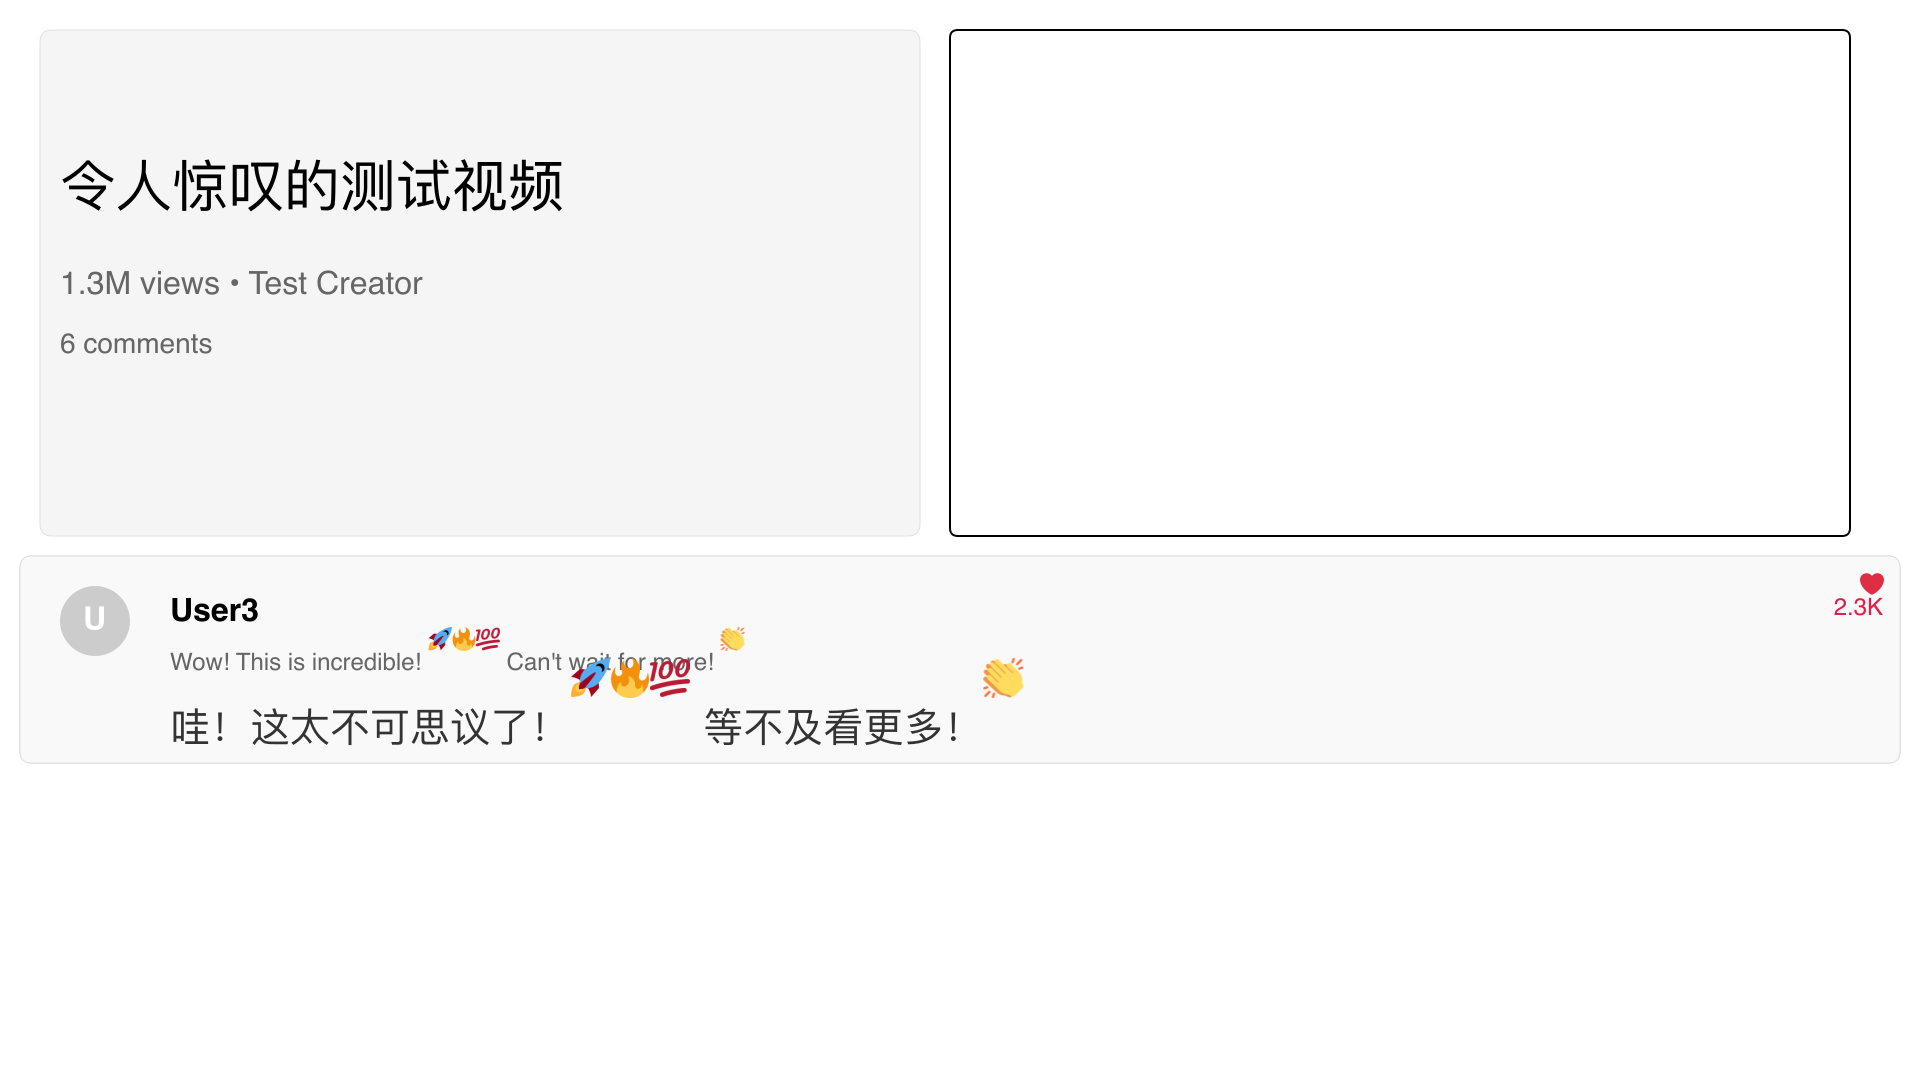
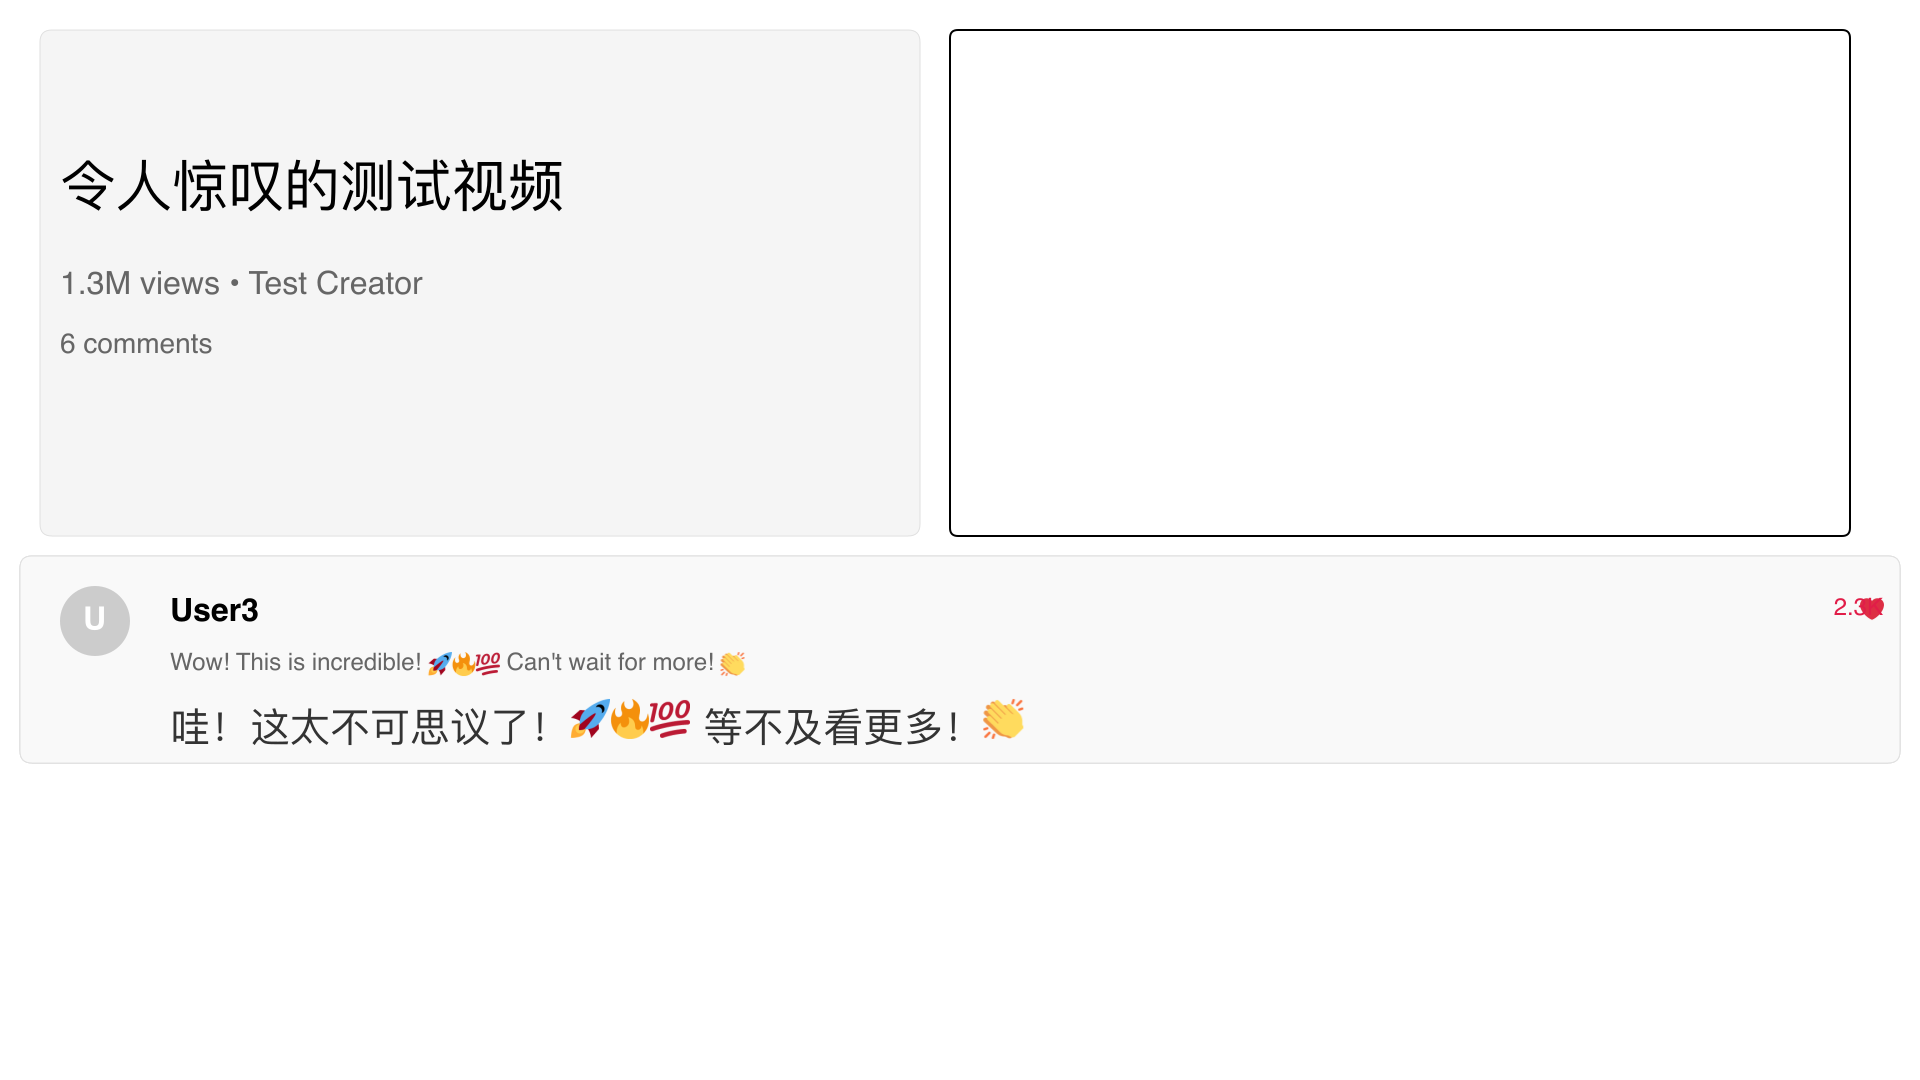
fix: Improve emoji alignment in text rendering by calculating baseline offsets. Update tests to extend timeouts for font and emoji loading, and adjust visual test images for better accuracy.

diff --git a/lib/__tests__/media.test.ts b/lib/__tests__/media.test.ts
@@ -129,14 +129,14 @@ describe('Video Rendering Pipeline', () => {
 			// A simple check to ensure something was drawn.
 			const pixel = ctx.getImageData(50, 50, 1, 1).data
 			expect(pixel[3]).not.toBe(0) // Check that the pixel is not fully transparent
-		})
+		}, 15000) // 15 second timeout for font loading
 
 		it('should render a comment card with bilingual content', async () => {
 			await renderCommentCard(ctx, mockComments[0], 0, 1, null, 1920, 1080)
 			// A simple check to ensure something was drawn.
 			const pixel = ctx.getImageData(100, 600, 1, 1).data
 			expect(pixel[3]).not.toBe(0)
-		})
+		}, 20000) // 20 second timeout for emoji and font loading
 
 		it('should generate and save visual snapshots of rendering stages', async () => {
 			const fs = await import('fs/promises')
@@ -225,6 +225,6 @@ describe('Video Rendering Pipeline', () => {
 
 			// This is a visual test, so we just assert it runs without errors.
 			expect(true).toBe(true)
-		}, 30000) // 30 second timeout for emoji loading
+		}, 60000) // 60 second timeout for emoji loading and file operations
 	})
 })

diff --git a/lib/media.ts b/lib/media.ts
@@ -180,6 +180,11 @@ async function fillTextWithEmojis(
 	ctx.font = font
 	ctx.fillStyle = fillStyle
 	
+	// Calculate text baseline for proper emoji alignment
+	const textMetrics = ctx.measureText('Ag') // Use a character with descenders and ascenders
+	const textHeight = textMetrics.actualBoundingBoxAscent + textMetrics.actualBoundingBoxDescent
+	const baselineOffset = textMetrics.actualBoundingBoxAscent
+	
 	const parts = splitTextAndEmojis(text)
 	let currentX = x
 	
@@ -190,7 +195,9 @@ async function fillTextWithEmojis(
 		} else if (part.type === 'emoji') {
 			const emojiImage = await getEmojiImage(part.content)
 			if (emojiImage) {
-				ctx.drawImage(emojiImage, currentX, y - emojiSize, emojiSize, emojiSize)
+				// Align emoji with text baseline
+				const emojiY = y - baselineOffset + (textHeight - emojiSize) / 2
+				ctx.drawImage(emojiImage, currentX, emojiY, emojiSize, emojiSize)
 				currentX += emojiSize
 			} else {
 				// Fallback to regular text rendering if emoji image fails to load
